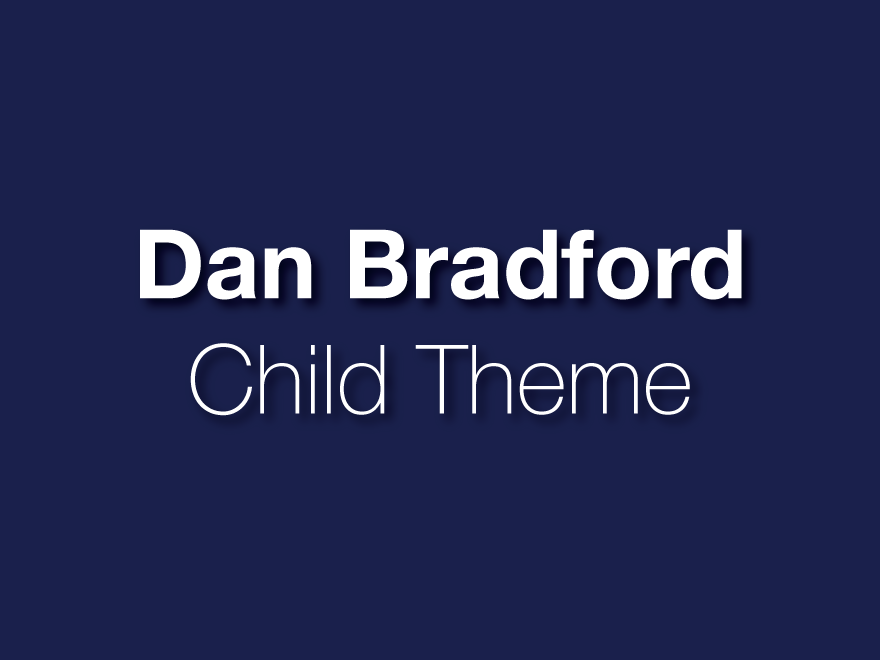
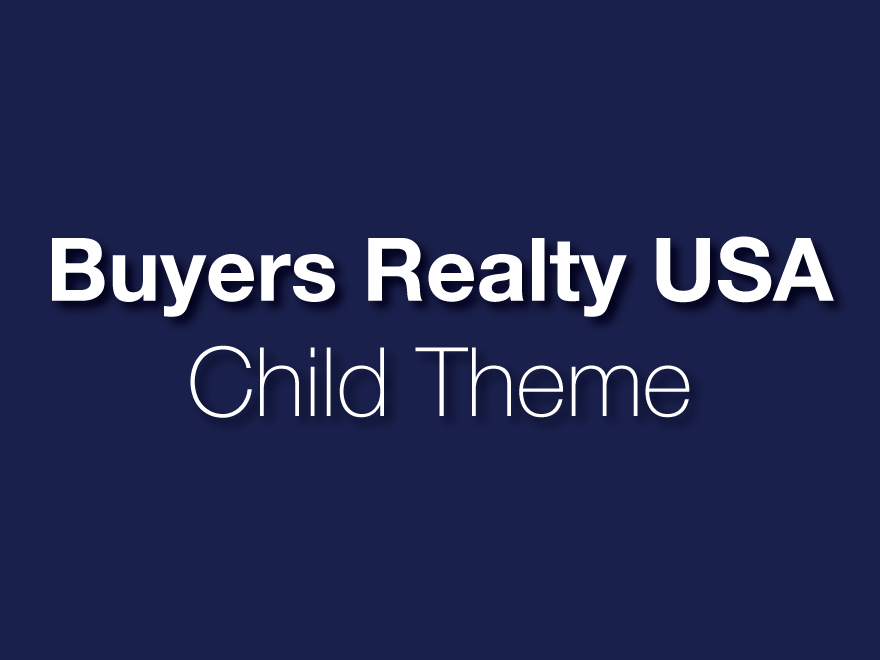
Finished

diff --git a/style.css b/style.css
@@ -1,14 +1,14 @@
 /*
- Theme Name:         Dan Bradford Boulevard
+ Theme Name:         Buyers Realty USA Boulevard
  Theme URI:          http://homejunction.com
- Description:        A custom child theme for Dan Bradford, built on the Boulevard framework.
+ Description:        A custom child theme for Buyers Realty USA, built on the Boulevard framework.
  Author:             Kevin McCartney on behalf of Home Junction Inc.
  Author URI:         http://www.homejunction.com
  Template:           hji-boulevard
  Version:            1.0.0
  License:            MIT License
  License URI:        http://opensource.org/licenses/MIT
- Text Domain:        hji-dan-bradford-blvd
+ Text Domain:        hji-buyers-realty-blvd
  HJI Package:        hji-membership
  HJI Require Theme:  HJI Boulevard:3.0.0
 */

diff --git a/assets/scss/partials/_child-globals.scss b/assets/scss/partials/_child-globals.scss
@@ -60,7 +60,6 @@ ul.nav.nav-tabs,
     @include no_borders;
 }
 
-// makes the rIDX listings grid 3/4 width centered on the screen on $screen-xs
 .idx-results {
     @include mobile_landscape {
         width: 75%;
@@ -86,10 +85,11 @@ input.btn.btn-primary.idx_call2action {
     }
 }
 
-.hji-fieldwrap-inner.hji-yearbuilt-wrap,
-.hji-fieldwrap-inner.hji-size-wrap {
-    width: 50%;
+
+.hji-fieldwrap-inner.hji-size-wrap,
+.hji-fieldwrap-inner.hji-yearbuilt-wrap {
     display: inline-block;
+    width: 50%;
 }
 
 .hji-fieldwrap-inner:last-of-type {

diff --git a/assets/scss/partials/_footer.scss b/assets/scss/partials/_footer.scss
@@ -1,3 +1,7 @@
+#footer {
+    padding: 3rem 0;
+}
+
 // a bottom margin for the footer widgets so they don't sit right on top of the copyright
 .footer-widgets.row {
     margin-bottom: 2rem;
@@ -49,8 +53,4 @@ button.btn.btn-primary.custom-contact {
 
 #idx-footer-compliance .compliance-asset {
     margin: 1rem;
-}
-
-#footer {
-    padding: 3rem 0;
 }

diff --git a/assets/scss/child-base.scss b/assets/scss/child-base.scss
@@ -8,9 +8,6 @@
 /* Boulevard Base Import */
 @import "../../../hji-boulevard/assets/scss/base";
 
-/* Import more weights of Open Sans */
-@import url("https://fonts.googleapis.com/css?family=Open+Sans:400,600");
-
 /* Import child variables & mixins */
 @import "child-variables";
 @import "partials/mixins";

diff --git a/assets/scss/_child-variables.scss b/assets/scss/_child-variables.scss
@@ -5,8 +5,6 @@ $brand-third: #4d4d4d;
 $brand-primary-light-20: lighten($brand-primary, 20%);
 $brand-primary-dark-20: darken($brand-primary, 20%);
 
-$brand-third-dark-20: darken($brand-third, 20%);
-
 $brand-fourth: #3FA4D4;
 $brand-fourth-dark-20: darken($brand-fourth, 20%);
 

diff --git a/assets/scss/partials/_header.scss b/assets/scss/partials/_header.scss
@@ -9,8 +9,6 @@ a.hji-user-signup {
 }
 
 div[id^="hji-theme-main-menu-widget"] {
-    font-weight: 400;
-
     @media (min-width: $screen-lg) {
         margin-top: 7rem !important;
     }

diff --git a/functions.php b/functions.php
@@ -8,8 +8,8 @@ if ( !defined( 'HJI_BLVD_SCSS' ) ) {
     define( 'HJI_BLVD_SCSS', true );
 }
 
-if ( !function_exists( 'hji_bradford_widgets_init' ) ) {
-    function hji_bradford_widgets_init() {
+if ( !function_exists( 'hji_buyers_realty_widgets_init' ) ) {
+    function hji_buyers_realty_widgets_init() {
         register_sidebar( array(
             'id'            => 'fullwidth_qs',
             'name'          => 'Full Width Quick Search Area',
@@ -22,6 +22,15 @@ if ( !function_exists( 'hji_bradford_widgets_init' ) ) {
 
         unregister_sidebar( 'idx-horizontal-search');
         unregister_sidebar( 'blvd-main-sidebarwidgets');
+        unregister_sidebar( 'blvd-topbar-sidebarwidgets');
     }
-    add_action('widgets_init', 'hji_bradford_widgets_init', 11);
+    add_action('widgets_init', 'hji_buyers_realty_widgets_init', 11);
+}
+
+if ( !function_exists('hji_buyers_realty_load_fonts') ) {
+    function hji_buyers_realty_load_fonts() {
+        wp_register_style('googleFonts', 'https://fonts.googleapis.com/css?family=Open+Sans:400,600');
+        wp_enqueue_style( 'googleFonts');
+    }
+    add_action('wp_enquque_scripts', 'load_fonts', 11);
 }

diff --git a/base-front-page.php b/base-front-page.php
@@ -38,14 +38,6 @@
                         <?php dynamic_sidebar( 'blvd-homewidgets'); ?>
                     </div>
                 <?php endif; ?>
-                <?php if ( is_active_sidebar( 'blvd-hometabwidgets' ) ) : ?>
-                    <div class="blvd-tabwrap">
-                        <ul class="nav nav-tabs"></ul>
-                        <div class="blvd-tabs-container tab-content">
-                            <?php dynamic_sidebar('blvd-hometabwidgets'); ?>
-                        </div>
-                    </div>
-            <?php endif; ?>
         </section>
         <?php get_footer( hji_theme_template_base() ); ?>
     </div>

diff --git a/README.md b/README.md
@@ -1,2 +1,2 @@
-## Dan Bradford Boulevard Child Theme
-> This is a custom child theme built by Kevin McCartney on Behalf of Home Junction Inc. for Dan Bradford on the Boulevard framework.
+## Buyers Realty USA Boulevard Child Theme
+> This is a custom child theme built by Kevin McCartney on Behalf of Home Junction Inc. for Buyers Realty USA on the Boulevard framework.
